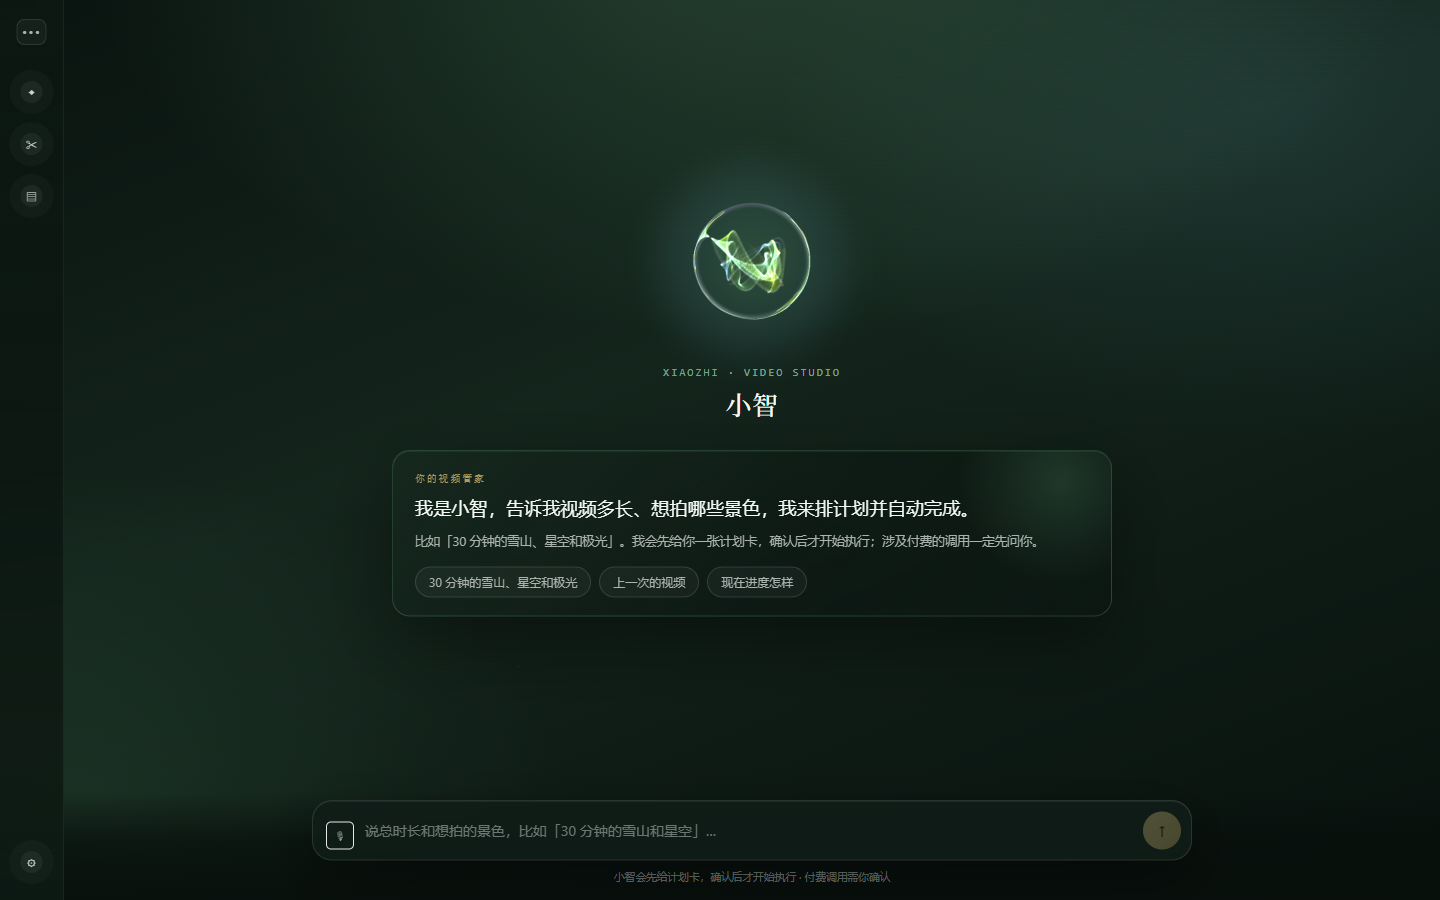
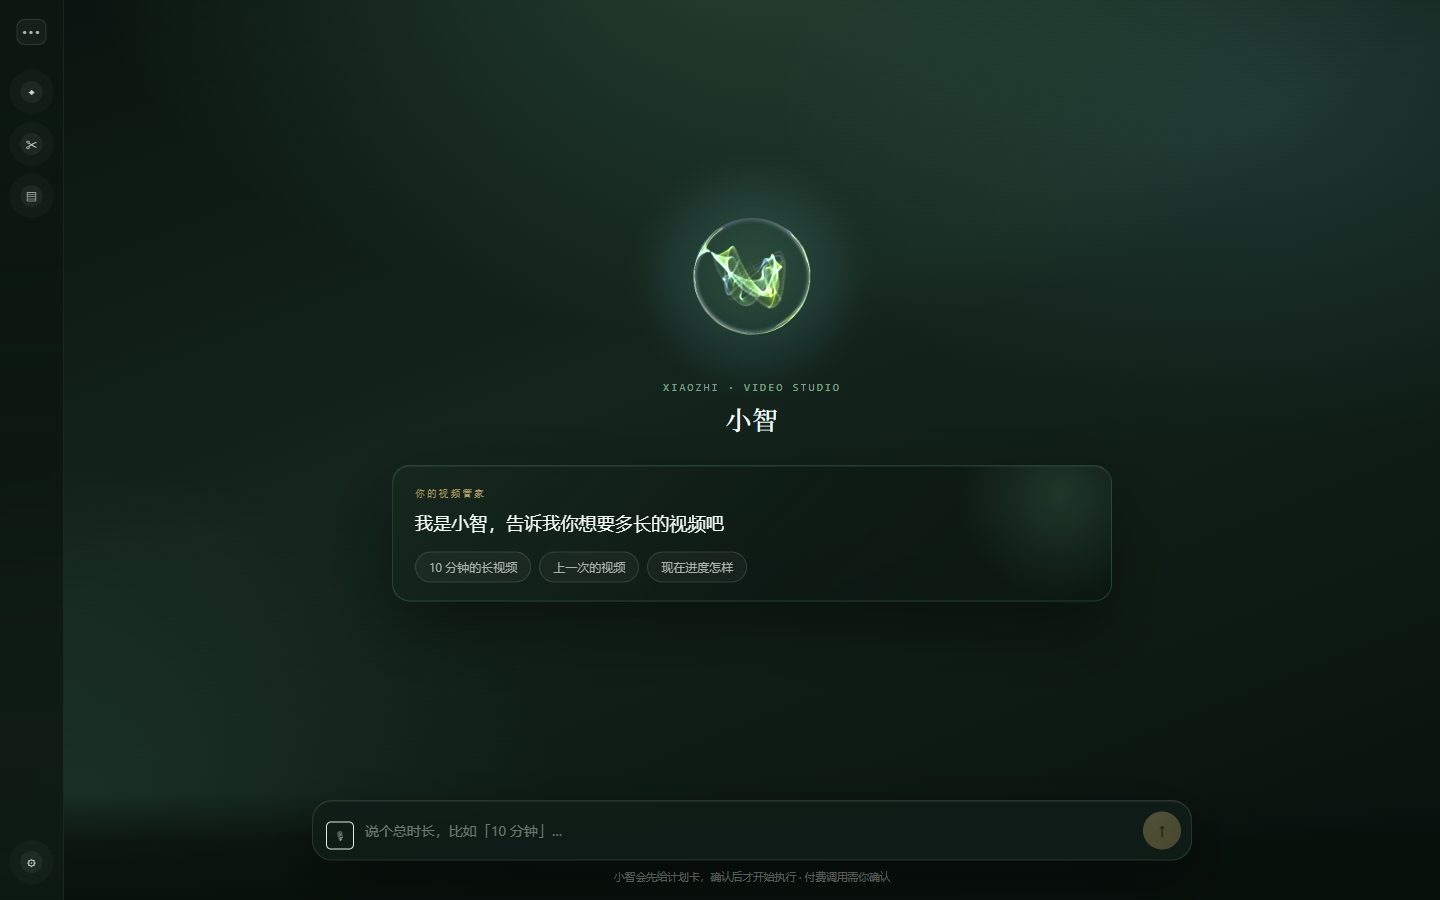
feat(web): 介绍卡精简为一句「我是小智，告诉我你想要多长的视频吧」
用户 11:56 反馈：介绍卡后面的解释冗杂。删掉长副文案（场景数/付费说明交给计划卡与输入框下方提示），悬浮面板问候与首页气泡同步缩短。

同步 verify-xiaozhi-home 断言（44/0）；CDP 9222 22/0（无 console 错误）；刷新 6 张截图。

3001 已由用户 11:52 重启为 PID 131412：线上探针 16/0（10 分钟 → 60 段、无主题、场景卡库 60 个不同场景；主题句只提示不按单一主题）；verify-assistant 99/0。

diff --git a/web/src/components/assistant.js b/web/src/components/assistant.js
@@ -674,10 +674,7 @@ export function Assistant({ page = false } = {}) {
             ${!chatting && html`
               <section className="xz-intro" aria-label="小智介绍">
                 <p className="xz-intro-kicker">你的视频管家</p>
-                <h2 className="xz-intro-title">我是小智，告诉我视频多长，我从场景卡库里自动挑不同场景、排好计划并完成。</h2>
-                <p className="xz-intro-sub">
-                  比如「10 分钟」：每段 10 秒，10 分钟就是 60 个不同场景，不用指定主题。我会先给你一张计划卡，确认后才开始执行；涉及付费的调用一定先问你。
-                </p>
+                <h2 className="xz-intro-title">我是小智，告诉我你想要多长的视频吧</h2>
                 <div className="xz-chips">
                   ${PAGE_CHIPS.map((c) => html`
                     <button key=${c} type="button" className="xz-chip" onClick=${() => pickGreeting(c)}>${c}</button>
@@ -875,7 +872,7 @@ export function Assistant({ page = false } = {}) {
             </div>
           `}
           ${msgs.length === 0 && backend.ok && html`
-            <${Msg} role="assistant" text=${'我是小智。说个总时长就能排计划，比如「10 分钟」——场景从场景卡库按顺序自动抽取，不需要指定主题；也可以问「上一次的视频」或「现在进度怎样」。'} />
+            <${Msg} role="assistant" text=${'我是小智。说个总时长就能排计划，比如「10 分钟」；也可以问「上一次的视频」或「现在进度怎样」。'} />
           `}
           ${msgs.length === 0 && !backend.ok && hasKey && html`
             <${Msg} role="assistant" text="说说你想拍什么？比如「极光」「喀斯特晨雾」。单条就一次问一个问题；也可以在上面直接批量生成 N 条不同地貌。" />

diff --git a/scripts/verify-xiaozhi-home.js b/scripts/verify-xiaozhi-home.js
@@ -72,8 +72,8 @@ async function httpGet(url) {
   check(/data-page="xiaozhi"/.test(assistant), '整页容器 data-page=xiaozhi');
   check(/PAGE_CHIPS = \['10 分钟的长视频', '上一次的视频', '现在进度怎样'\]/.test(assistant), '介绍卡 3 个建议 chips（时长优先，不是主题示例）');
   check(!/30 分钟的雪山|10 分钟的极光/.test(assistant), '不再用主题式长片示例');
-  check(/xz-intro-title[\s\S]{0,160}我是小智，告诉我视频多长/.test(assistant), '介绍卡开场白：说时长 → 自动抽场景');
-  check(/场景卡库/.test(assistant) && /60 个不同场景/.test(assistant), '介绍卡说明「场景卡库自动抽取 60 个不同场景」');
+  check(/xz-intro-title">我是小智，告诉我你想要多长的视频吧</.test(assistant), '介绍卡只留一句「我是小智，告诉我你想要多长的视频吧」');
+  check(!/xz-intro-sub/.test(assistant), '介绍卡不再写长副文案（细节交给计划卡）');
   check(/xz-composer-wrap/.test(assistant) && /xz-inputbar/.test(assistant), '底部微信式输入框');
   check(/VoiceButton/.test(assistant), '语音按钮复用（ASR → 失败回退打字）');
   check(/is-compact/.test(assistant), '有消息后大球缩小（is-compact）');

diff --git a/web/src/screens/assistantPage.js b/web/src/screens/assistantPage.js
@@ -3,7 +3,7 @@
 // ------------------------------------------------------------
 // 登录后的 `/` = 整页「小智」对话页：
 //   · 左侧可收起气泡导航（三个点 = 收起/展开，不是退出；localStorage 记住状态）
-//   · 主区顶部大球 → 介绍卡（1–2 句 agent 开场白 + 建议 chips）→ 对话区
+//   · 主区顶部大球 → 介绍卡（一句开场白 + 建议 chips）→ 对话区
 //   · 底部微信式输入框固定在主区下方
 //   · 整页深绿/祖母绿渐变，与大球青绿色呼应；保留 P2/P3 香槟金 accent
 // 六步创作向导仍在 /create（导航「创作」进入，功能不变）。

diff --git a/web/src/components/xiaozhiPlan.js b/web/src/components/xiaozhiPlan.js
@@ -129,7 +129,7 @@ export function GreetingBubble({ onPick, onClose, bottom = 136 }) {
         <div className="flex-1">
           <p className="text-[12px] text-ink font-medium">我是小智</p>
           <p className="mt-1 text-[11px] leading-[1.65] text-ink3">
-            说个总时长，我来排计划，比如「10 分钟」。场景从场景卡库里按顺序自动抽取，长片也是几十个不同场景，不用指定主题。
+            说个总时长，我来排计划，比如「10 分钟」。
           </p>
         </div>
         <button

diff --git a/docs/交接/00-总计划与进度.md b/docs/交接/00-总计划与进度.md
@@ -7,8 +7,10 @@
 > 已改：首页 chips / 介绍卡 / 占位文案改为「10 分钟的长视频」等**时长优先**；`planCard` 不再把口语里的地貌词
 > 升级为计划主题（用户提到时只给一句「不按单一主题选卡」提示）；计划卡与回复改为
 > 「场景：场景卡库自动抽取 N 个不同场景（按章节顺序，不重复）」；场景卡提示词不再把用户整句当「氛围」
-> 注入每段（否则 60–180 段会被拉向同一主题）。验收见交接记录；**src/ 改动仍需重启 3001 才生效**
-> （当前 3001 是 **PID 17860**，11:39:46 由用户重启，**早于本轮 11:41 的 src 改动**，所以仍是旧逻辑）。
+> 注入每段（否则 60–180 段会被拉向同一主题）。**3001 已由用户 11:52 重启为 PID 131412**，本轮 src 改动已生效，
+> 线上探针 **16/0**（10 分钟 → 60 段、无主题、60 个不同场景；30 分钟主题句 → 只提示不按主题）；
+> 11:56 再按用户要求精简介绍卡（只留「我是小智，告诉我你想要多长的视频吧」，删掉长副文案），截图 6 张已刷新。
+> 验收见交接记录。
 >
 > 2026-11-16 01:05 更新：**P0 / P1 / P2 / P3 / P4 / P5 / P6 全部完成**（进度表无「待做」阶段）。
 > P6 = 下线历史/产出入口 + 收尾文档：历史/产出页与路由已移除（深链落「库 · 成片」），
@@ -401,10 +403,11 @@
   改「场景：场景卡库自动抽取 N 个不同场景」；后端 `planCard` 不再把地貌词升级成主题（仅提示）、
   `taskManager/pipeline` 不再把用户整句当「氛围」注入每段提示词；`supervisor` 回复改「我按 X 分钟排好了」。
   验收（零计费）：`verify-assistant` **99/0**、`verify-scene-cards` **57/0**、`verify-xiaozhi-home` **44/0**、
-  `verify-p6-offline` **41/0**。**3001 已于 11:39:46 由用户重启为 PID 17860**，但该进程早于本轮 11:41 的 src 改动，
-  仍是 11:30 版旧逻辑：11:44 探针「10 分钟」→ 回复「我按「自然风光」排好了」+「没识别到主题」警告；
-  11:37（旧 PID 25988）探针「30 分钟的雪山、星空和极光」→ `themeLabel='极光'`。
-  **本轮 src 改动还需再重启一次才能生效**（重启后预期：10 分钟 = 60 段、无主题行、「场景：场景卡库自动抽取 60 个不同场景」）。
+  `verify-p6-offline` **41/0**。**用户 11:52 重启 3001 → PID 131412**（晚于 11:41 的 src 改动）：
+  线上探针 **16/0**（「10 分钟」→ 60 段、`themeLabel=null`、回复「我按 10.0 分钟排好了」+「场景：场景卡库自动抽取 60 个不同场景」；
+  「30 分钟的雪山、星空和极光」→ 180 段、无主题行、只给「不按单一主题选卡」提示）；
+  CDP 9222 **22/0**（新前端无 console 错误），6 张截图已刷新。11:56 按用户要求再精简介绍卡：
+  标题改「我是小智，告诉我你想要多长的视频吧」，删除长副文案（细节交给计划卡与输入框下方说明）。
   15 秒/段未开放：场景卡按 10 秒/张设计，需产品决定 + 验证。
 
 ## 红线（简版，完整见 handoff §10）

diff --git a/docs/spec/changelog.md b/docs/spec/changelog.md
@@ -3444,9 +3444,12 @@ $env:DATABASE_TYPE='json'; node scripts/verify-seam-qc.js; $env:DATABASE_TYPE=''
 - `node scripts/verify-scene-cards.js` → **57 / 0**。
 - `node scripts/verify-xiaozhi-home.js` → **44 / 0**。
 - `node scripts/verify-p6-offline.js` → **41 / 0**。
-- 3001 已于 11:39:46 由用户重启为 **PID 17860**，但早于本轮 11:41 的 src 改动，仍是 11:30 版旧逻辑：
-  11:44 探针「10 分钟」→ `themeLabel=null`，但回复「我按「自然风光」排好了」+「没识别到主题」警告；
-  11:37（旧 PID 25988）探针「30 分钟的雪山、星空和极光」→ `themeLabel='极光'`。
-  **本轮 src 改动需再重启一次 3001 才生效；`web/` 刷新即生效。**
+- **3001 已由用户 11:52 重启为 PID 131412**（晚于本轮 11:41 的 src 改动，新口径已生效）：
+  线上探针 **16/0** —— 「10 分钟」→ 60 段、`themeLabel=null`、回复「我按 10.0 分钟排好了」+
+  「场景：场景卡库自动抽取 60 个不同场景」；「30 分钟的雪山、星空和极光」→ 180 段、无主题行，
+  只给「不按单一主题选卡」提示。
+- 11:56 介绍卡再精简（用户反馈「不要解释那么多，后面的有点冗杂」）：标题改为
+  「我是小智，告诉我你想要多长的视频吧」，删除长副文案；悬浮面板问候与首页气泡同步缩短。
+  CDP 9222 **22/0**（新前端无 console 错误），6 张截图已刷新；`verify-xiaozhi-home` **44/0**。
 - 未做：15 秒/段。场景卡按 10 秒/张设计（180 张 = 30 分钟），15 秒会被 `PLAN_SCENE_CARD_DURATION` 拒绝；
   是否开放需产品决定 + Mock/真实生成验证，不能只改校验。

diff --git a/docs/交接/2026-11-16-小智页面改造-设计任务书.md b/docs/交接/2026-11-16-小智页面改造-设计任务书.md
@@ -128,7 +128,10 @@
 - `node scripts/verify-assistant.js` → **99 通过 / 0 失败**（Mock 成片 19.11s、自动重试、离线 ASR 全过）。
 - `node scripts/verify-scene-cards.js` → **57 / 0**；`node scripts/verify-xiaozhi-home.js` → **44 / 0**；
   `node scripts/verify-p6-offline.js` → **41 / 0**。
-- 3001 已于 11:39:46 由用户重启为 **PID 17860**，但早于本轮 11:41 的 src 改动，仍是 11:30 版旧逻辑
-  （11:44 探针「10 分钟」→ 回复「我按「自然风光」排好了」+「没识别到主题」警告）。
-  **本轮 src 改动需再重启一次 3001 才生效；`web/` 刷新即生效。**
+- **3001 已由用户 11:52 重启为 PID 131412**（晚于本轮 src 改动，新口径已生效）：线上探针 **16/0**
+  （「10 分钟」→ 60 段、无主题行、「场景：场景卡库自动抽取 60 个不同场景」；主题句只提示不按主题）；
+  CDP 9222 **22/0**；6 张截图已刷新。
+- **11:56 介绍卡再精简**（用户：不要解释那么多、后面的有点冗杂）：标题改为
+  「我是小智，告诉我你想要多长的视频吧」，删除长副文案（场景数/付费说明交给计划卡与输入框下方一行提示）；
+  悬浮面板问候与首页气泡也同步缩短。`verify-xiaozhi-home` **44/0**（断言同步）。
 - 未做：15 秒/段（场景卡按 10 秒/张设计，15 秒会被 `PLAN_SCENE_CARD_DURATION` 拒绝；需产品决定 + 验证）。

diff --git a/docs/交接/2026-11-16-页面窗口交接-1135.md b/docs/交接/2026-11-16-页面窗口交接-1135.md
@@ -134,8 +134,8 @@ node ..\.scratch\auto_chain\capture_xiaozhi_home.js
   场景卡提示词不再把用户整句注入每段（避免 60–180 段被拉向同一主题）。
 - 验收：`verify-assistant` **99/0**、`verify-scene-cards` **57/0**、`verify-xiaozhi-home` **44/0**、
   `verify-p6-offline` **41/0**（2026-11-16 11:44，零计费）。
-- **3001 已于 11:39:46 由用户重启为 PID 17860**（早于本轮 11:41 的 src 改动，仍是 11:30 版旧逻辑）：
-  重启后验证内容改为——发「10 分钟」→ 计划卡 60 段、**无主题行**、
-  「场景：场景卡库自动抽取 60 个不同场景」；发「30 分钟的雪山、星空和极光」→ 计划卡仍无主题，但多一条
-  「不按单一主题选卡」提示。旧截图 xz-04 重启后重拍。
+- **3001 已由用户 11:52 重启为 PID 131412**（晚于本轮 src 改动，新逻辑已生效）：
+  线上探针 **16/0** —— 发「10 分钟」→ 计划卡 60 段、**无主题行**、「场景：场景卡库自动抽取 60 个不同场景」；
+  发「30 分钟的雪山、星空和极光」→ 180 段、无主题行，多一条「不按单一主题选卡」提示。
+  CDP 9222 **22/0**，6 张截图已刷新；11:56 介绍卡再精简为一句「我是小智，告诉我你想要多长的视频吧」（删长副文案）。
 - 15 秒/段未开放：场景卡按 10 秒/张设计，需产品决定后再改。
